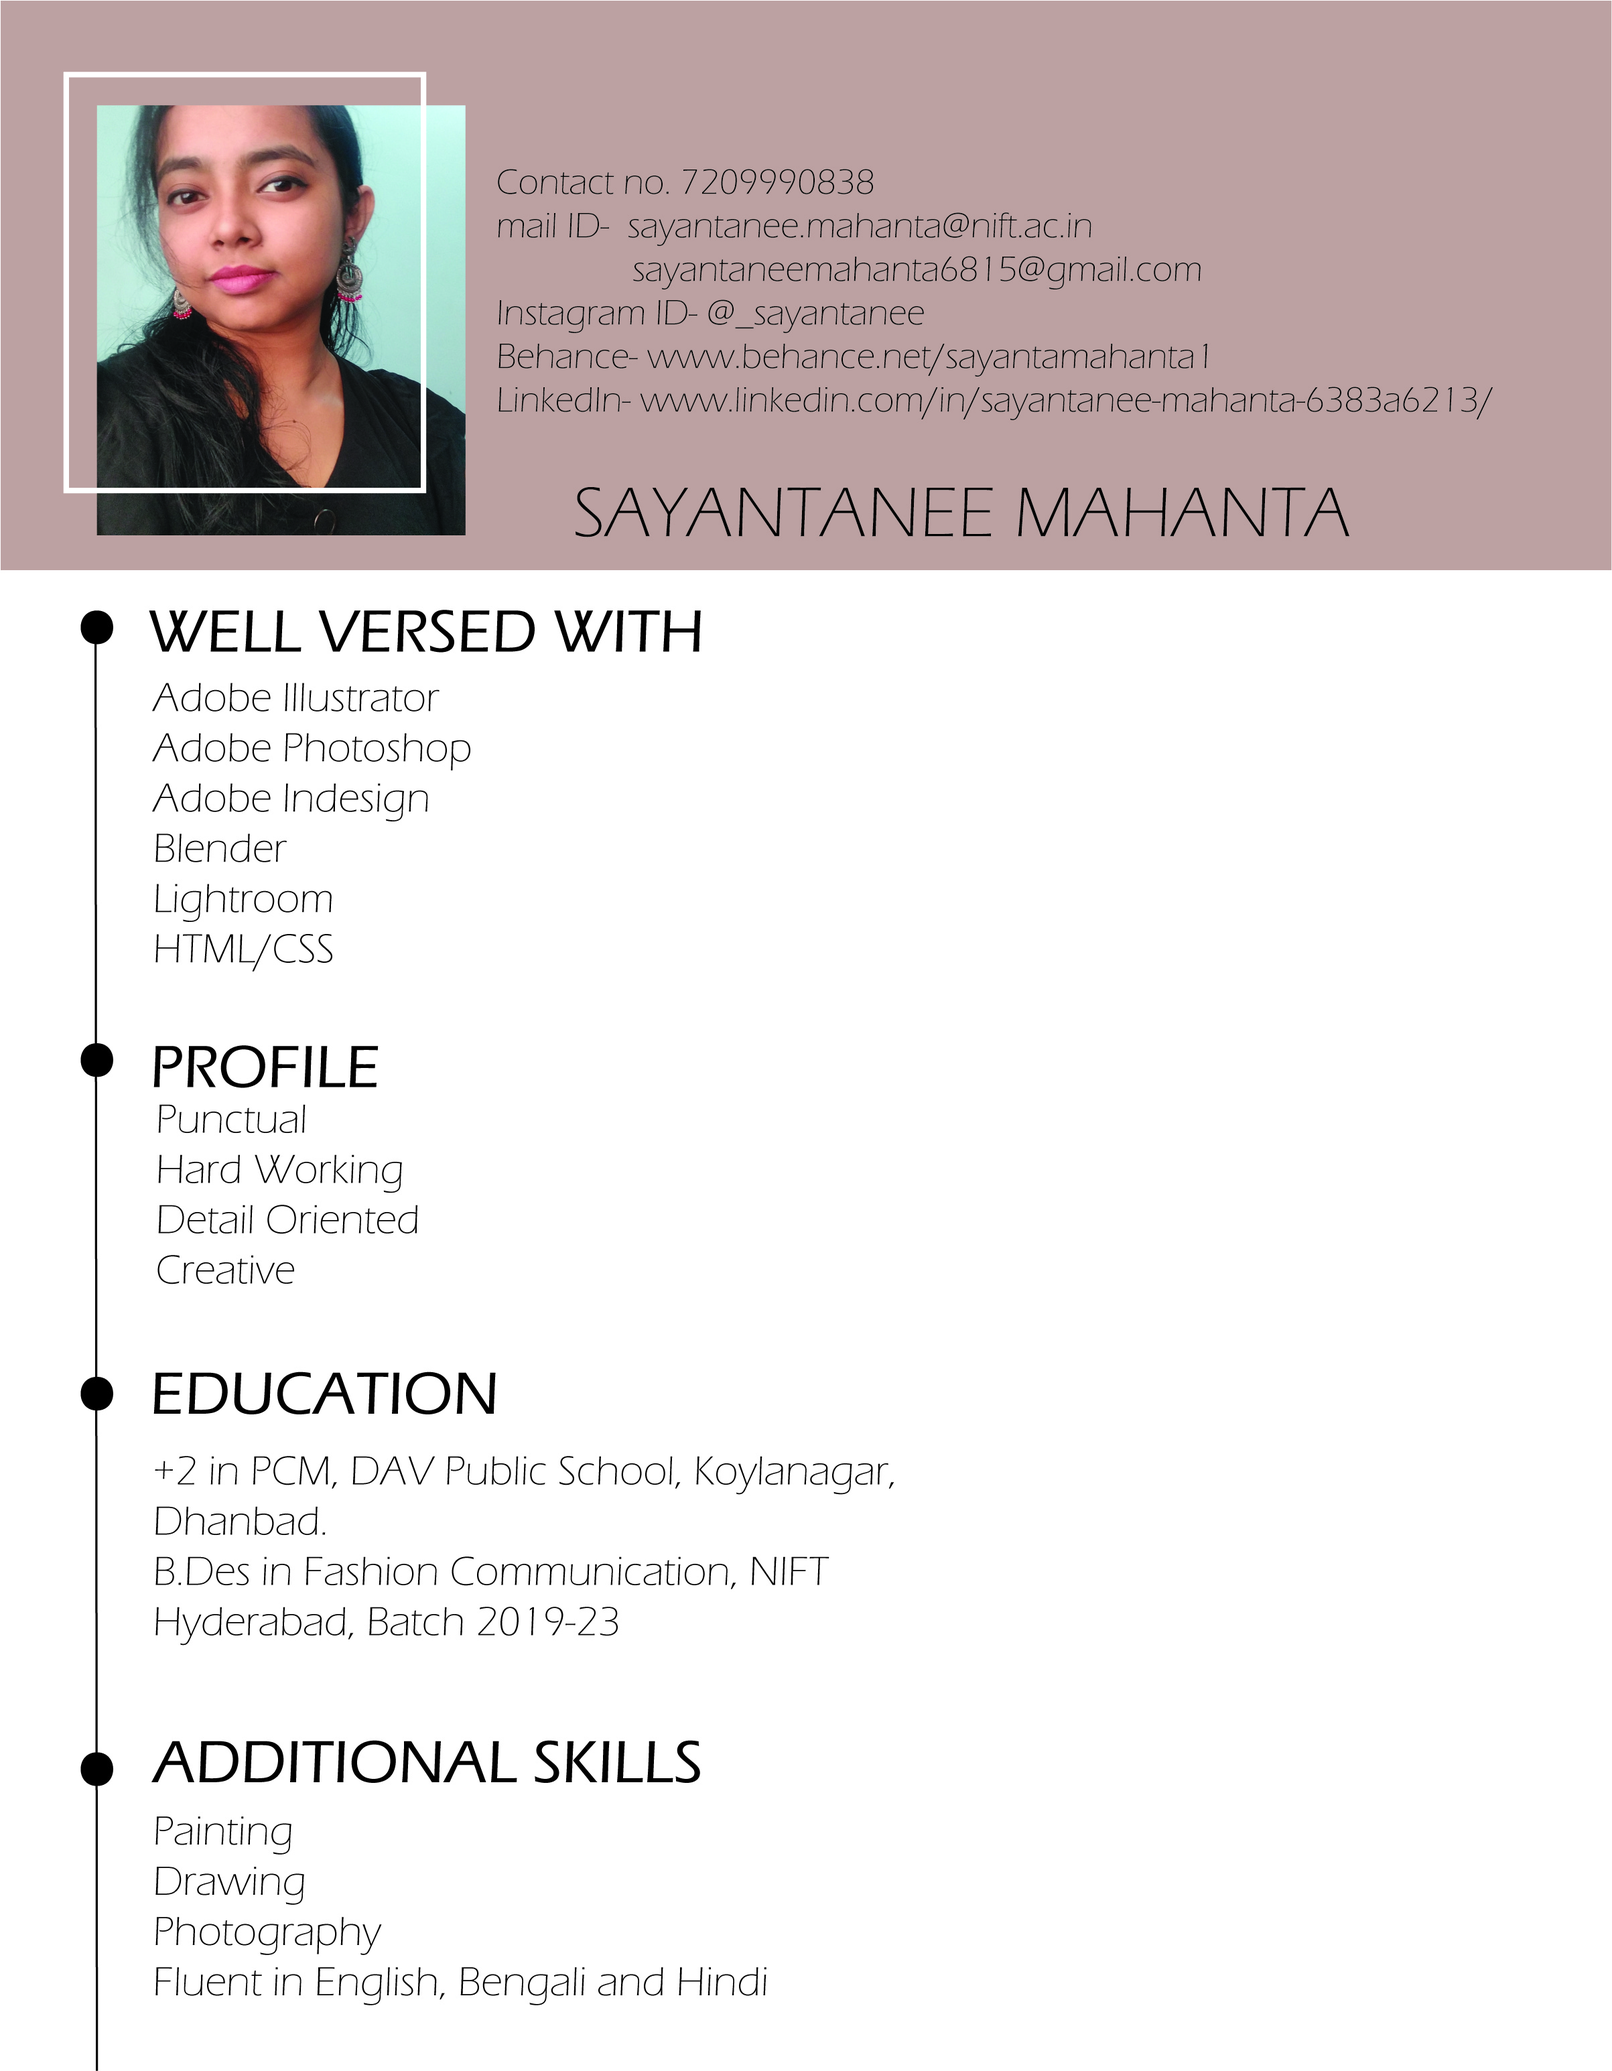
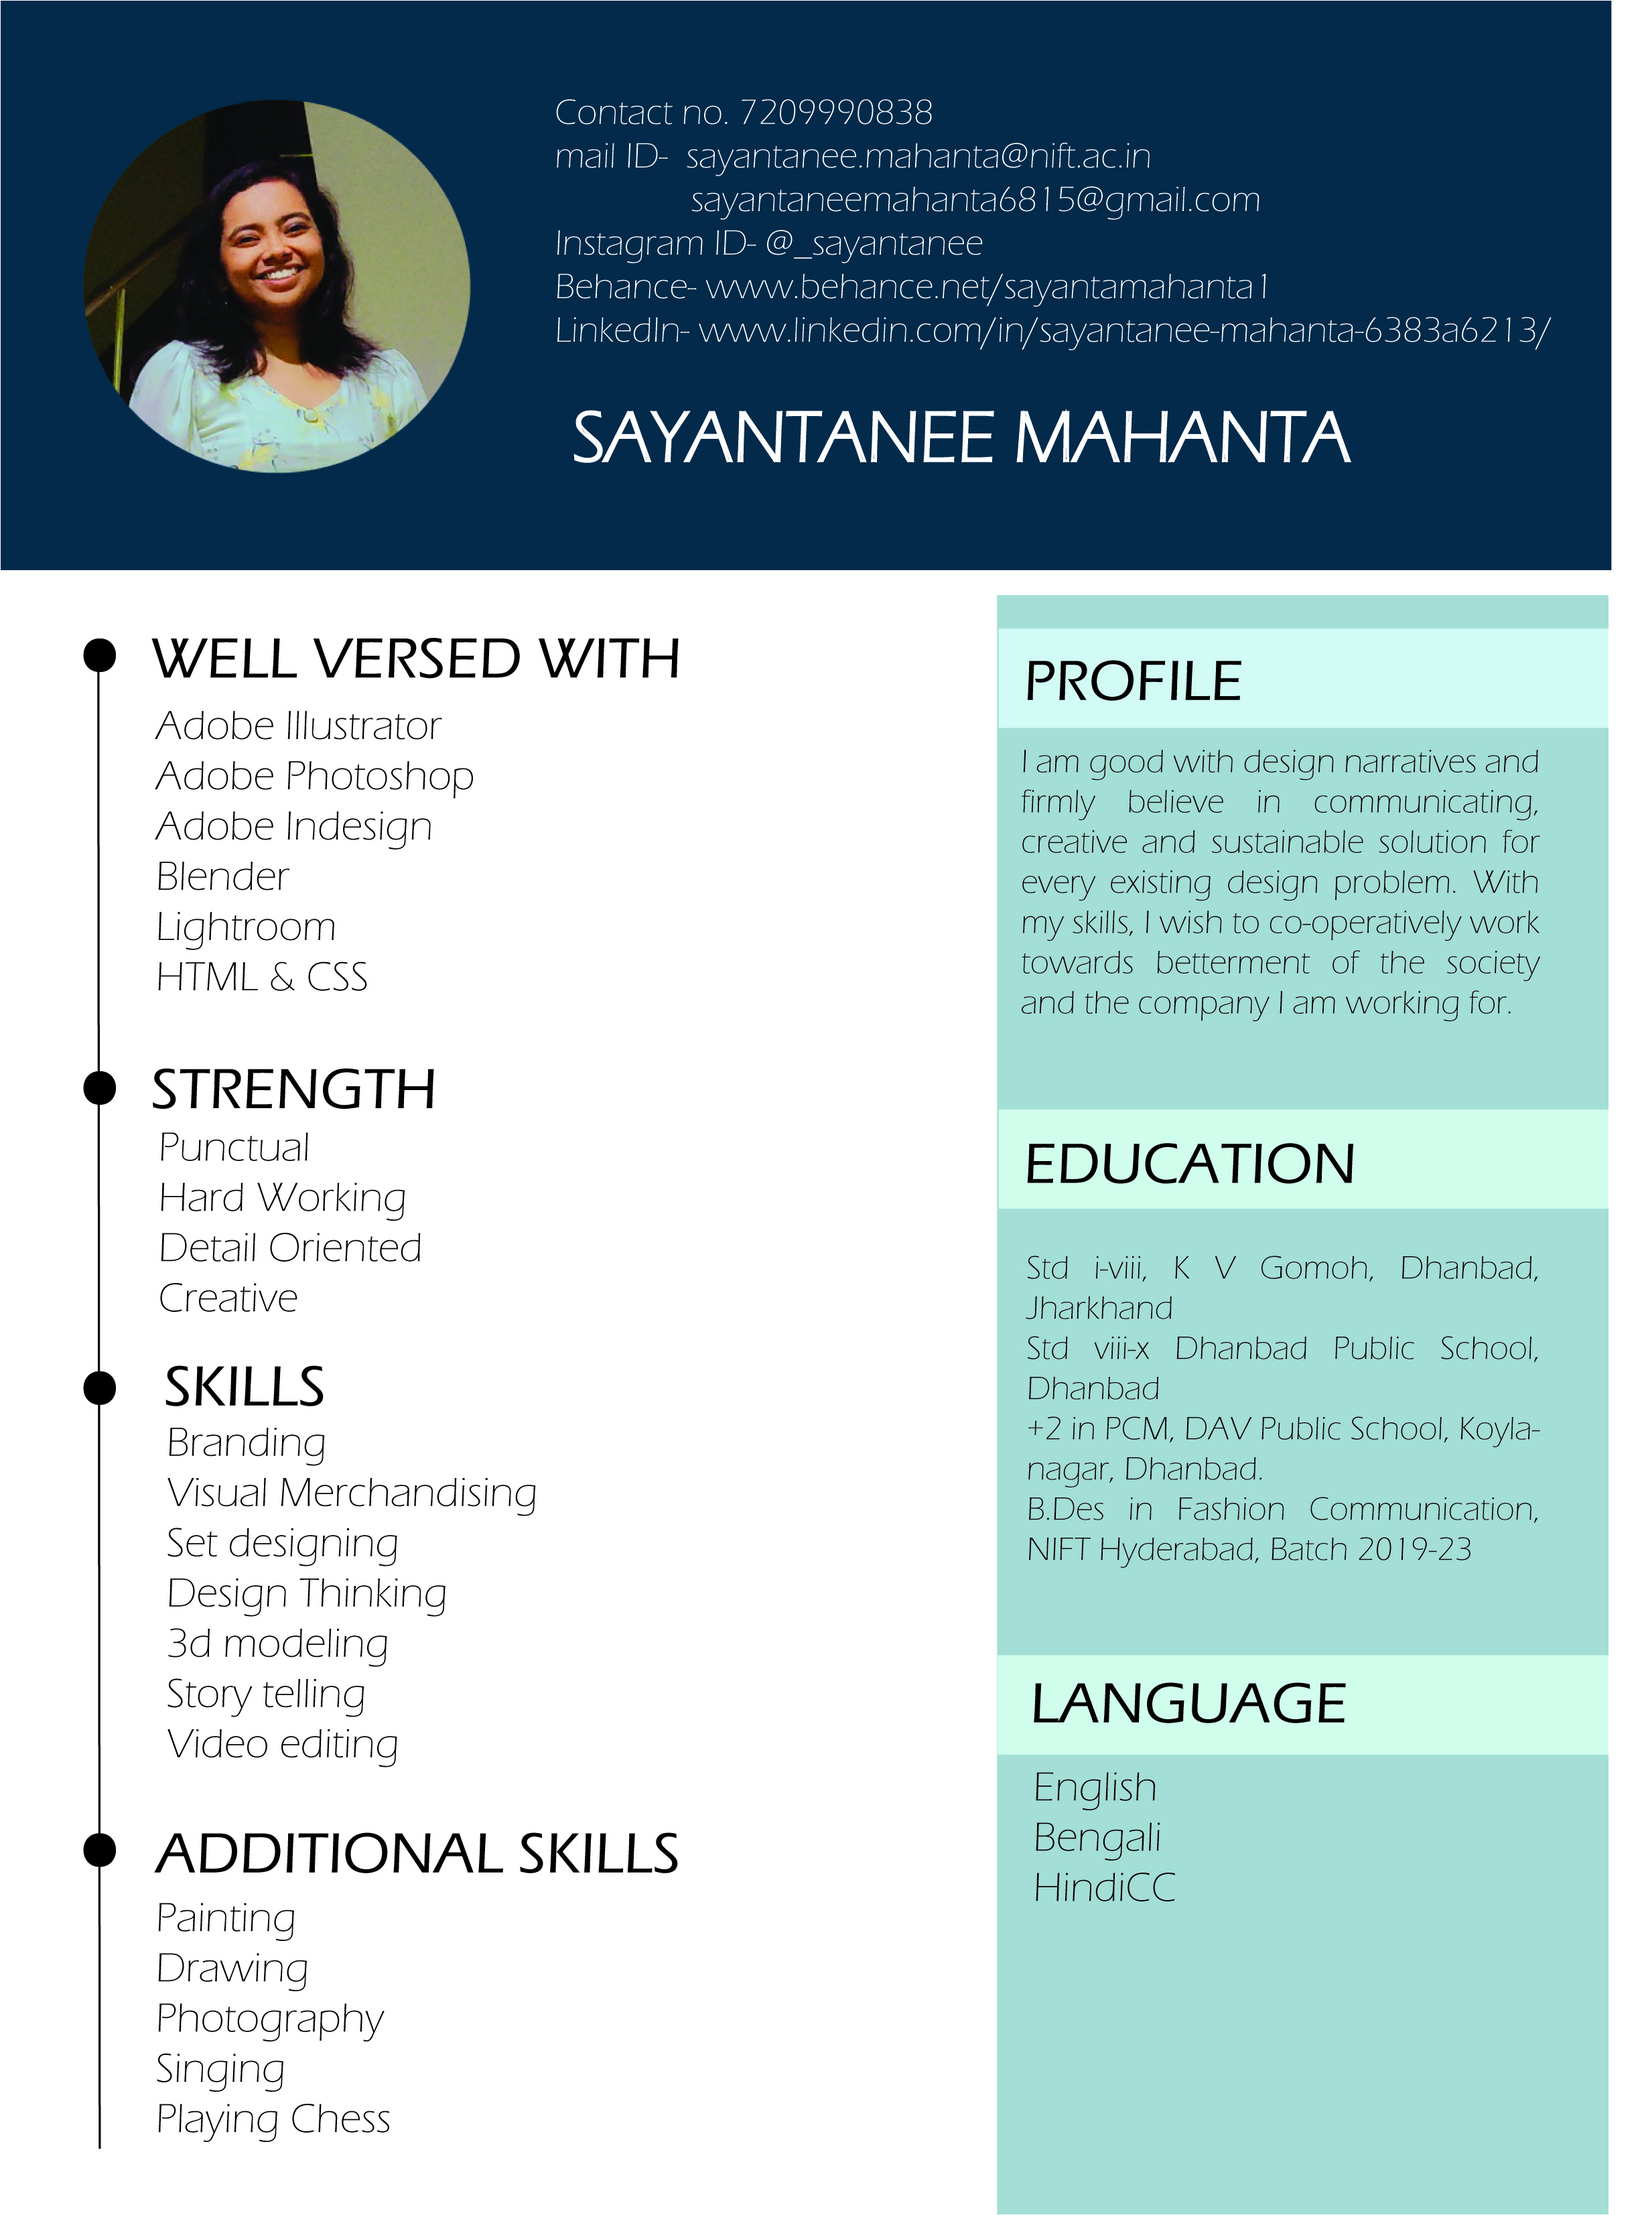
ongoing

diff --git a/Assignment_2/index.html b/Assignment_2/index.html
@@ -1,52 +1,59 @@
 <!DOCTYPE html>
 <html lang="en" dir="ltr">
-<link rel="stylesheet" href="css/main.css">
-<link rel="stylesheet" href="css/reset.css">
 
 <head>
   <meta charset="utf-8">
   <title>Resume</title>
+  <link rel="stylesheet" href="css/main.css">
+  <link rel="stylesheet" href="css/reset.css">
 </head>
 
 <body>
   <section class="board">
-    <img id="pp" src="Profilepicture.png" height="120px">
     <div class="writeup">
+      <img id="pp" src="ProfilePicture.png" height="120px">
       <div id="contactdetails">
-        <h1>Contact no. 7209990838</h1>
-        <h1>mail ID- sayantaneemahanta6815@gmail.com
-          sayantanee.mahanta@nift.ac.in</h1>
-        <h1>Instagram ID- @_sayantanee</h1>
-        <h1>Behance- www.behance.net/sayantamahanta1</h1>
-        <h1>LinkedIn- www.linkedin.com/in/sayantanee-mahanta-6383a6213/</h1>
+        <nav>
+          Contact no. 7209990838
+          <h1>mail ID- <a href="#">sayantanee.mahanta@nift.ac.in</a></h1>
+          <h1><a href="#">sayantaneemahanta6815@gmail.com</a></h1>
+          <h1>Instagram ID- <a href="#">@_sayantanee</a></h1>
+          <h1>Behance- <a href="https://www.behance.net/sayantamahanta1/projects">sayantamahanta1</a></h1>
+          <h1>LinkedIn- <a href="https://www.linkedin.com/in/sayantanee-mahanta-6383a6213//">sayantanee-mahanta</a></h1>
+        </nav>
       </div>
       <h2 id="name">SAYANTANEE MAHANTA</h2>
       <div class="profiles">
         <img src="pngfind.com-horizontal-black-line-png-1858856.png" width="1.3px" height="400px">
         <div class="Detail">
-          <li><h2>WELL VERSED WITH</h2>
-            <p>Adobe Illustrator</p>
-            <p>Adobe Photoshop</p>
-            <p>Adobe Indesign</p>
-            <p>Blender</p>
-            <p>AutoCAD</p>
-          </li>
-          <li><h2>PROFILE</h2>
-            <p>Punctual</p>
-            <p>Hard Working</p>
-            <p>Detail Oriented</p>
-            <p>Creative</p>
-          </li>
-          <li><h2>EDUCATION</h2>
-            <p>+2 in PCM, DAV Public School, Koylanagar, Dhanbad.</p>
-            <p>B.Des in Fashion Communication, NIFT Hyderabad, Batch 2019-23</p>
-          </li>
-          <li><h2>ADDITIONAL SKILLS</h2>
-            <p>Painting</p>
-            <p>Drawing</p>
-            <p>Photography</p>
-            <p>Fluent in English, Bengali and Hindi</p>
-          </li>
+          <h2>WELL VERSED WITH</h2>
+          <p>Adobe Illustrator</p>
+          <p>Adobe Photoshop</p>
+          <p>Adobe Indesign</p>
+          <p>Lightroom</p>
+          <p>HTML & CSS</p>
+
+          <h2>STRENGTH</h2>
+          <p>Punctual</p>
+          <p>Hard Working</p>
+          <p>Detail Oriented</p>
+          <p>Creative</p>
+
+          <h2>SKILLS</h2>
+          <p>Branding</p>
+          <p>Visual Merchandising</p>
+          <p>Set Designing</p>
+          <p>Design Thinking</p>
+          <p>3D modeling</p>
+          <p>Story Telling</p>
+          <p>Video Editing</p>
+
+          <h2>ADDITIONAL SKILLS</h2>
+          <p>Painting</p>
+          <p>Drawing</p>
+          <p>Photography</p>
+          <p>Singing</p>
+          <p>Playing Chess</p>
         </div>
       </div>
     </div>

diff --git a/Assignment_2/css/main.css b/Assignment_2/css/main.css
@@ -1,17 +1,34 @@
 body {
-  background-color: #2e2828;
+  background-color: #1f282b;
 }
 
 section.board {
-  background-color: #bfa097;
+  background-color: #ffff;
   height: 700px;
   width: 500px;
-  border: 1px solid black;
   margin: auto;
-  margin-top: 50px;
+  margin-top: 25px;
+}
+
+.board .writeup {
+  background-color: #01364a;
+  height: 150px;
 }
 
 .board #pp {
+ display: inline;
+ margin: 15px 0 0 20px;
+}
+
+.writeup #contactdetails {
+  display: inline;
+    position: relative;
+    bottom: 110px;
+    left: 150px;
+    color: #ffff;
+    font-size: 12px;
+}
+/* .board #pp {
   float: left;
   padding: 20px 0 0 25px;
 }
@@ -41,4 +58,4 @@ margin: 50px 0 0 -40px;
 div.profiles .Detail {
   display: inline-block;
   margin: 40px 0 0 10px;
-}
+} */
